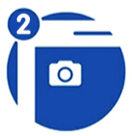
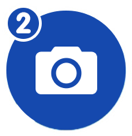
анимашка дино ракеты и новые значки

diff --git a/assets/js/main.js b/assets/js/main.js
@@ -71,20 +71,6 @@ if(t4){
     });
 }
 
-if(t4){
-    t4.addEventListener("click", function(){
-        var a = document.querySelector("#dino-g-t4-audio");
-        var ai = document.querySelector("#dino-g-t4-audio-icon");
-        if(!a.playing){
-            a.play();
-            ai.src = "assets/images/sound_on.png";
-        } else {
-            a.pause();
-            ai.src = "assets/images/sound_off.png";
-        }
-    });
-}
-
 if(t5){
     t5.addEventListener("click", function(){
         var a = document.querySelector("#dino-g-t5-audio");
@@ -246,7 +232,14 @@ ctml.to("#curtain", .5, {
 ctml.to("#curtain", .5, {opacity: 0});
 ctml.from("#dino-g-2-rocket", 2, {y: 600, opacity: 0});
 ctml.to("#dino-g-2-rocket", .5, {x: 90, ease: Power4.easeOut});
-ctml.from("#dino-g-2-bubble", 1, {scale: 0, ease: Elastic.easeOut.config(1, 0.3)});
+ctml.from("#dino-g-2-bubble", 1, {scale: 0, ease: Elastic.easeOut.config(1, 0.3), onComplete: function(){
+    var drf = "";
+
+    setInterval(function(){
+        drf = drf === "" ? "2" : "";
+        document.querySelector("#rocket-top").src = "assets/images/dinorocket_new"+drf+".png";
+    },300);
+    }});
 ctml.from("#lmb", .3, {
     y: 75, delay: 5, onComplete: function () {
         ctml.pause();
